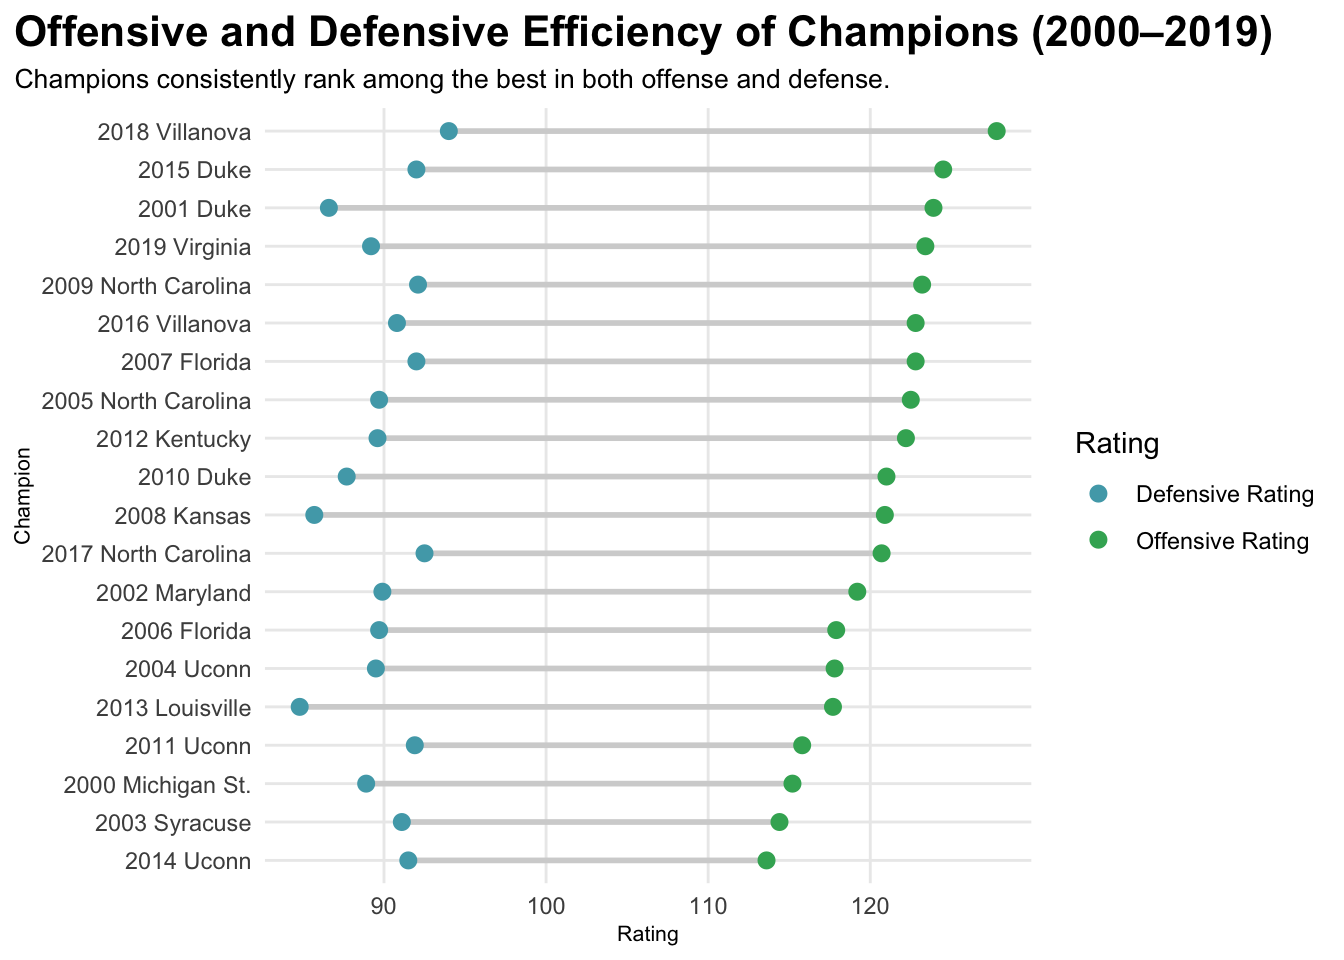
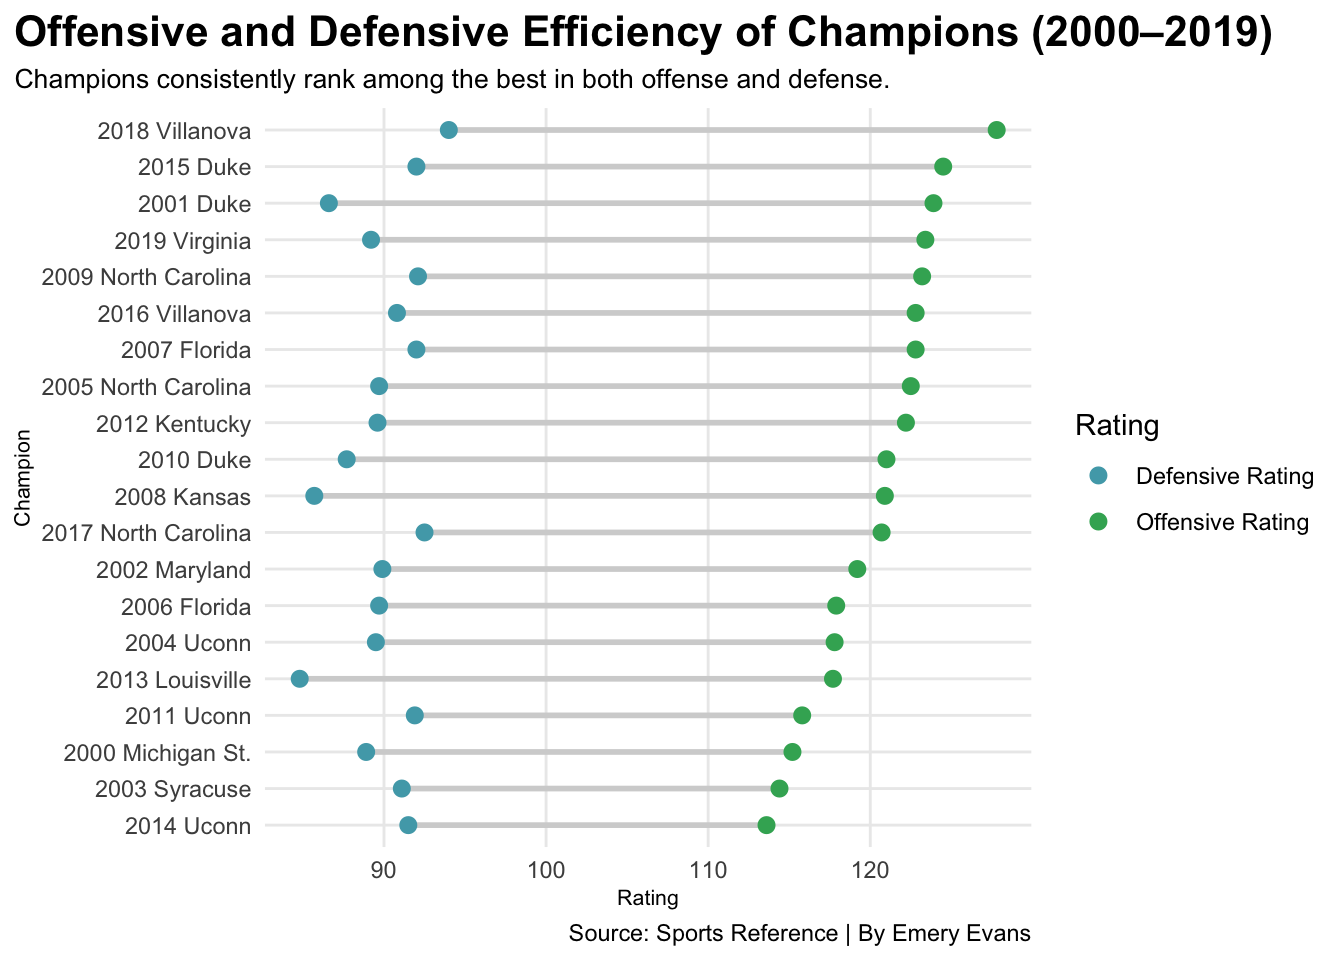
fixing caption

diff --git a/index.html b/index.html
@@ -185,7 +185,7 @@ window.Quarto = {
 <!-- margin-sidebar -->
     <div id="quarto-margin-sidebar" class="sidebar margin-sidebar">
         
-    <h5 class="quarto-listing-category-title">Categories</h5><div class="quarto-listing-category category-default"><div class="category" data-category="">All <span class="quarto-category-count">(3)</span></div><div class="category" data-category="YW5hbHlzaXM=">analysis <span class="quarto-category-count">(1)</span></div><div class="category" data-category="YmFza2V0YmFsbA==">basketball <span class="quarto-category-count">(1)</span></div><div class="category" data-category="Y29kZQ==">code <span class="quarto-category-count">(1)</span></div><div class="category" data-category="bWFyY2htYWRuZXNz">marchmadness <span class="quarto-category-count">(1)</span></div><div class="category" data-category="bmV3cw==">news <span class="quarto-category-count">(2)</span></div><div class="category" data-category="dGVhbXM=">teams <span class="quarto-category-count">(1)</span></div></div></div>
+    <h5 class="quarto-listing-category-title">Categories</h5><div class="quarto-listing-category category-default"><div class="category" data-category="">All <span class="quarto-category-count">(1)</span></div><div class="category" data-category="YmFza2V0YmFsbA==">basketball <span class="quarto-category-count">(1)</span></div><div class="category" data-category="bWFyY2htYWRuZXNz">marchmadness <span class="quarto-category-count">(1)</span></div><div class="category" data-category="dGVhbXM=">teams <span class="quarto-category-count">(1)</span></div></div></div>
 <!-- main -->
 <main class="content quarto-banner-title-block column-page-left" id="quarto-document-content">
 
@@ -199,7 +199,7 @@ window.Quarto = {
 
 <div class="quarto-listing quarto-listing-container-default" id="listing-listing">
 <div class="list quarto-listing-default">
-<div class="quarto-post image-right" data-index="0" data-categories="YmFza2V0YmFsbCUyQ21hcmNobWFkbmVzcyUyQ3RlYW1z" data-listing-date-sort="1775797200000" data-listing-file-modified-sort="1775853950925" data-listing-date-modified-sort="NaN" data-listing-reading-time-sort="9" data-listing-word-count-sort="1646">
+<div class="quarto-post image-right" data-index="0" data-categories="YmFza2V0YmFsbCUyQ21hcmNobWFkbmVzcyUyQ3RlYW1z" data-listing-date-sort="1775797200000" data-listing-file-modified-sort="1775854262618" data-listing-date-modified-sort="NaN" data-listing-reading-time-sort="9" data-listing-word-count-sort="1658">
 <div class="thumbnail"><a href="./posts/-who-would've-won-march-madness-in-2020/index.html" class="no-external">
 
 <img loading="lazy" src="./posts/-who-would've-won-march-madness-in-2020/image.png" class="thumbnail-image">
@@ -229,70 +229,6 @@ Apr 10, 2026
 </div>
 <div class="listing-author">
 Emery Evans
-</div>
-</a>
-</div>
-</div>
-<div class="quarto-post image-right" data-index="1" data-categories="bmV3cyUyQ2NvZGUlMkNhbmFseXNpcw==" data-listing-date-sort="1774846800000" data-listing-file-modified-sort="1774896424720" data-listing-date-modified-sort="NaN" data-listing-reading-time-sort="1" data-listing-word-count-sort="9">
-<div class="thumbnail"><a href="./posts/post-with-code/index.html" class="no-external">
-
-<img loading="lazy" src="./posts/post-with-code/image.jpg" class="thumbnail-image">
-
-</a></div>
-<div class="body">
-<h3 class="no-anchor listing-title">
-<a href="./posts/post-with-code/index.html" class="no-external">Post With Code</a>
-</h3>
-<div class="listing-categories">
-
-<div class="listing-category" onclick="window.quartoListingCategory('bmV3cw=='); return false;">news</div>
-
-<div class="listing-category" onclick="window.quartoListingCategory('Y29kZQ=='); return false;">code</div>
-
-<div class="listing-category" onclick="window.quartoListingCategory('YW5hbHlzaXM='); return false;">analysis</div>
-
-</div>
-<div class="delink listing-description"><a href="./posts/post-with-code/index.html" class="no-external">
-This is a post with executable code.
-</a></div>
-</div>
-<div class="metadata">
-<a href="./posts/post-with-code/index.html" class="no-external">
-<div class="listing-date">
-Mar 30, 2026
-</div>
-<div class="listing-author">
-Harlow Malloc
-</div>
-</a>
-</div>
-</div>
-<div class="quarto-post image-right" data-index="2" data-categories="bmV3cw==" data-listing-date-sort="1774587600000" data-listing-file-modified-sort="1774896424720" data-listing-date-modified-sort="NaN" data-listing-reading-time-sort="1" data-listing-word-count-sort="32">
-<div class="thumbnail"><a href="./posts/welcome/index.html" class="no-external">
-
-<p class="card-img-top"><img src="posts/welcome/thumbnail.jpg"  class="thumbnail-image card-img"/></p>
-
-</a></div>
-<div class="body">
-<h3 class="no-anchor listing-title">
-<a href="./posts/welcome/index.html" class="no-external">Welcome To My Blog</a>
-</h3>
-<div class="listing-categories">
-
-<div class="listing-category" onclick="window.quartoListingCategory('bmV3cw=='); return false;">news</div>
-
-</div>
-<div class="delink listing-description"><a href="./posts/welcome/index.html" class="no-external">
-This is the first post in a Quarto blog. Welcome!
-</a></div>
-</div>
-<div class="metadata">
-<a href="./posts/welcome/index.html" class="no-external">
-<div class="listing-date">
-Mar 27, 2026
-</div>
-<div class="listing-author">
-Tristan O’Malley
 </div>
 </a>
 </div>

diff --git a/posts/-who-would've-won-march-madness-in-2020/index.html b/posts/-who-would've-won-march-madness-in-2020/index.html
@@ -264,16 +264,17 @@ pre > code.sourceCode > span > a:first-child::before { text-decoration: underlin
 <span id="cb2-33"><a href="#cb2-33" aria-hidden="true" tabindex="-1"></a>    <span class="at">title =</span> <span class="st">"Offensive and Defensive Efficiency of Champions (2000–2019)"</span>,</span>
 <span id="cb2-34"><a href="#cb2-34" aria-hidden="true" tabindex="-1"></a>    <span class="at">subtitle =</span> <span class="st">"Champions consistently rank among the best in both offense and defense."</span>,</span>
 <span id="cb2-35"><a href="#cb2-35" aria-hidden="true" tabindex="-1"></a>    <span class="at">x =</span> <span class="st">"Rating"</span>,</span>
-<span id="cb2-36"><a href="#cb2-36" aria-hidden="true" tabindex="-1"></a>    <span class="at">y =</span> <span class="st">"Champion"</span></span>
-<span id="cb2-37"><a href="#cb2-37" aria-hidden="true" tabindex="-1"></a>  ) <span class="sc">+</span></span>
-<span id="cb2-38"><a href="#cb2-38" aria-hidden="true" tabindex="-1"></a>  <span class="fu">theme_minimal</span>() <span class="sc">+</span> </span>
-<span id="cb2-39"><a href="#cb2-39" aria-hidden="true" tabindex="-1"></a>  <span class="fu">theme</span>(</span>
-<span id="cb2-40"><a href="#cb2-40" aria-hidden="true" tabindex="-1"></a>    <span class="at">plot.title =</span> <span class="fu">element_text</span>(<span class="at">size =</span> <span class="dv">16</span>, <span class="at">face =</span> <span class="st">"bold"</span>),</span>
-<span id="cb2-41"><a href="#cb2-41" aria-hidden="true" tabindex="-1"></a>    <span class="at">axis.title =</span> <span class="fu">element_text</span>(<span class="at">size =</span> <span class="dv">8</span>), </span>
-<span id="cb2-42"><a href="#cb2-42" aria-hidden="true" tabindex="-1"></a>    <span class="at">plot.subtitle =</span> <span class="fu">element_text</span>(<span class="at">size=</span><span class="dv">10</span>), </span>
-<span id="cb2-43"><a href="#cb2-43" aria-hidden="true" tabindex="-1"></a>    <span class="at">panel.grid.minor =</span> <span class="fu">element_blank</span>(),</span>
-<span id="cb2-44"><a href="#cb2-44" aria-hidden="true" tabindex="-1"></a>    <span class="at">plot.title.position =</span> <span class="st">"plot"</span></span>
-<span id="cb2-45"><a href="#cb2-45" aria-hidden="true" tabindex="-1"></a>    ) </span></code></pre></div><button title="Copy to Clipboard" class="code-copy-button"><i class="bi"></i></button></div>
+<span id="cb2-36"><a href="#cb2-36" aria-hidden="true" tabindex="-1"></a>    <span class="at">y =</span> <span class="st">"Champion"</span>,</span>
+<span id="cb2-37"><a href="#cb2-37" aria-hidden="true" tabindex="-1"></a>    <span class="at">caption =</span> <span class="st">"Source: Sports Reference | By Emery Evans"</span></span>
+<span id="cb2-38"><a href="#cb2-38" aria-hidden="true" tabindex="-1"></a>  ) <span class="sc">+</span></span>
+<span id="cb2-39"><a href="#cb2-39" aria-hidden="true" tabindex="-1"></a>  <span class="fu">theme_minimal</span>() <span class="sc">+</span> </span>
+<span id="cb2-40"><a href="#cb2-40" aria-hidden="true" tabindex="-1"></a>  <span class="fu">theme</span>(</span>
+<span id="cb2-41"><a href="#cb2-41" aria-hidden="true" tabindex="-1"></a>    <span class="at">plot.title =</span> <span class="fu">element_text</span>(<span class="at">size =</span> <span class="dv">16</span>, <span class="at">face =</span> <span class="st">"bold"</span>),</span>
+<span id="cb2-42"><a href="#cb2-42" aria-hidden="true" tabindex="-1"></a>    <span class="at">axis.title =</span> <span class="fu">element_text</span>(<span class="at">size =</span> <span class="dv">8</span>), </span>
+<span id="cb2-43"><a href="#cb2-43" aria-hidden="true" tabindex="-1"></a>    <span class="at">plot.subtitle =</span> <span class="fu">element_text</span>(<span class="at">size=</span><span class="dv">10</span>), </span>
+<span id="cb2-44"><a href="#cb2-44" aria-hidden="true" tabindex="-1"></a>    <span class="at">panel.grid.minor =</span> <span class="fu">element_blank</span>(),</span>
+<span id="cb2-45"><a href="#cb2-45" aria-hidden="true" tabindex="-1"></a>    <span class="at">plot.title.position =</span> <span class="st">"plot"</span></span>
+<span id="cb2-46"><a href="#cb2-46" aria-hidden="true" tabindex="-1"></a>    ) </span></code></pre></div><button title="Copy to Clipboard" class="code-copy-button"><i class="bi"></i></button></div>
 </details>
 <div class="cell-output-display">
 <div>
